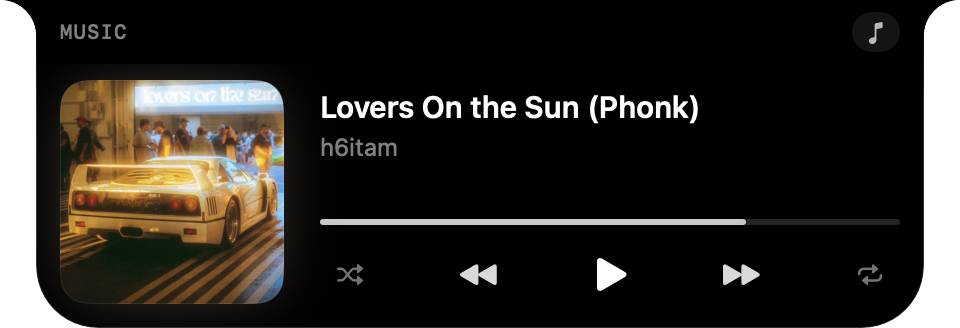
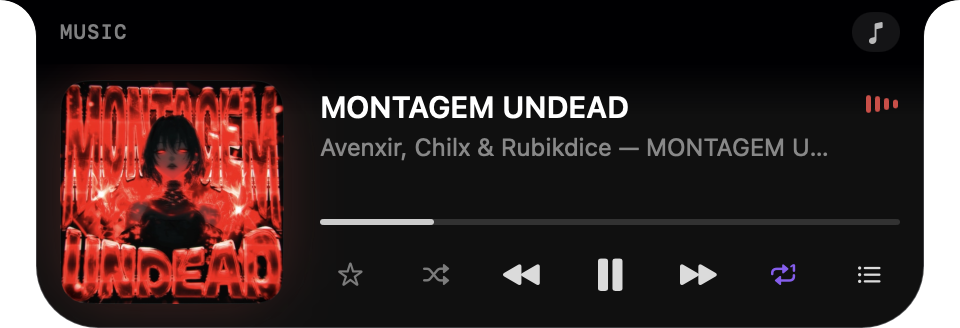
Describe the notch at the top of the README
A third item in what VoxOS does, and a section on the notch: each page
when it is open (Music with Up Next and Output, Calendar with reminders,
Weather, Pomodoro, Shelf, Sound), what it shows one at a time when it is
closed, Claude Code and the other CLIs, and the rest. The Music and
Pomodoro screenshots are taken from the current build.

diff --git a/README.md b/README.md
@@ -13,13 +13,64 @@
 VoxOS is a native macOS voice dictation and voice-to-action agent, built for my own day-to-day use —
 not distributed or sold.
 
-It does two things:
+It does three things:
 
 1. **Dictation** — hold a shortcut, speak, and it transcribes locally (Whisper / Parakeet) and pastes cleaned-up
    text wherever your cursor is.
 2. **Agent Mode** — hold a different shortcut, speak a request, and it acts on your Mac: add calendar events,
    set reminders, draft emails, send WhatsApp/Slack/iMessage messages, find files, open apps and URLs, and more,
    using a provider-agnostic JSON tool-calling loop (works with local Ollama, Local CLI, or any hosted provider).
+3. **The notch** — between dictations the MacBook's notch becomes a small home for the things you glance at:
+   music, your calendar, the weather, reminders, a Pomodoro timer, a file shelf and sound controls, plus
+   Claude Code's requests, all a hover away.
+
+## The notch
+
+Push the pointer to the top of the notch, or drag a file toward it, and it opens into a card whose pages you
+swipe between. The rest of the time it stays the size of the notch and shows one thing at a time.
+
+**Pages, when it is open**
+
+- 🎵 **Music** — the cover, the title and "Artist — Album", the lyric under way or the track's format
+  (Lossless, Hi-Res Lossless, Dolby Atmos), and its position; the star (Apple Music favourites), shuffle,
+  previous, play/pause, next and repeat; and a list with **Up Next** — the queue, numbered, a double-click
+  plays one — and **Output**, to send the sound to another device. In a track's last seconds it says what
+  is up next. Apple Music, Spotify and any app macOS reports as playing; dots switch between players. Live
+  Music Bars move with the actual audio when switched on.
+- 📅 **Calendar** — the date and the weather, the next events with **Join** for a video call, and under
+  them your reminders, ticked off from the notch.
+- 🌤 **Weather** — the place and when it was read; the temperature with the conditions and today's high and
+  low; rain chance, humidity, feels like and wind; and the next five days, each with its chance of rain and
+  its range as a bar on the week's, coloured by temperature. Open-Meteo, no key or account.
+- 🍅 **Pomodoro** — a ring with the time and the sessions done, and Start, Pause and Reset; start a focus,
+  a short break or a long break, whichever you want. Settings for each length, how many sessions come before a
+  long break (or none), the sound, and whether the next session starts on its own. Plain timers start by voice.
+- 🗂 **Shelf** — drop files on the notch to keep them at hand; open, copy, zip, reveal or remove them.
+- 🔊 **Sound** — each playing app's own volume, clipboard history, a camera mirror, keeping
+  the Mac awake, and pinning the card open.
+
+**One thing at a time, when it is closed**
+
+- The playing track with its cover and bars, a running timer, or a download's progress.
+- The next meeting, counting down, with **Join**.
+- Another app using the microphone or camera; a click on the microphone mutes it.
+- Volume and brightness, in place of macOS's own pop-up.
+- A short notice when something happens: a Bluetooth device or Wi-Fi connects or drops, the sound moves to
+  another output, the charger is plugged in or the battery runs low, a timer ends, rain is due within two
+  hours, a Focus mode comes on, or an app's unread count goes up.
+
+**Claude Code and other CLIs**
+
+- Allow or deny a Claude Code session's requests, answer its questions and approve its plans from the notch,
+  through local hooks. See when a session is working, its reply when a turn ends (read aloud if you like),
+  your usage limits and costs, and the CI result after a push. Codex turns, and Gemini CLI turns and
+  approvals, show there too.
+
+**Everything else**
+
+- Hold the notch to ask the Agent. Liquid Glass or solid black. Hidden from screenshots and screen sharing if
+  you want. Follows the display in use, and optionally stays in full screen. Every part has its own switch in
+  Settings → Notch, and nothing that needs a permission asks for it before you open its page.
 
 ## Features
 
@@ -50,9 +101,9 @@ It does two things:
 ## Screenshots
 
 <p align="center">
-  <img src="docs/screenshots/notch-music.png" width="480" alt="Notch Home's Music page: the cover, title, progress and controls" />
+  <img src="docs/screenshots/notch-music.png" width="480" alt="Notch Home's Music page: the cover, the title and Artist — Album, the progress line, and the star, shuffle, previous, pause, next, repeat and Up Next buttons" />
   <br />
-  <img src="docs/screenshots/notch-pomodoro.png" width="480" alt="Notch Home's Pomodoro page: a 25-minute focus ring with Start focus, 5 min and 15 min" />
+  <img src="docs/screenshots/notch-pomodoro.png" width="480" alt="Notch Home's Pomodoro page: a 25-minute focus ring with the session marks, Reset, Start and Settings" />
 </p>
 
 ## Build
